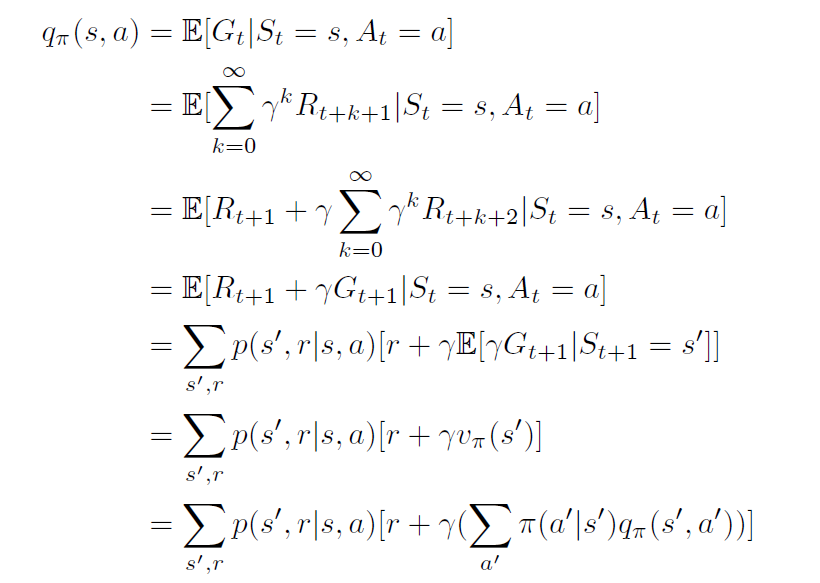
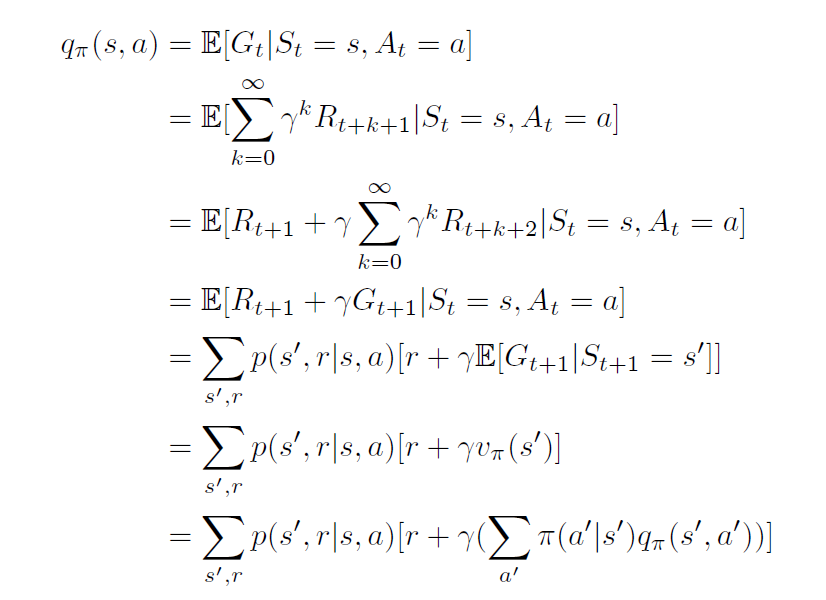
finish chapter 3 exercise

diff --git a/solutions/formulas/formulas.tex b/solutions/formulas/formulas.tex
@@ -69,7 +69,7 @@
     &= \mathbb{E}[\sum_{k=0}^{\infty}\gamma^kR_{t+k+1} | S_{t}=s, A_{t}=a]\\
     &= \mathbb{E}[R_{t+1} + \gamma \sum_{k=0}^{\infty}\gamma^kR_{t+k+2} | S_{t}=s, A_{t}=a]\\
     &= \mathbb{E}[R_{t+1} + \gamma G_{t+1} | S_{t}=s, A_{t}=a]\\
-    &= \sum_{s',r}p(s',r|s,a)[r + \gamma \mathbb{E}[\gamma G_{t+1} | S_{t+1}=s']]\\
+    &= \sum_{s',r}p(s',r|s,a)[r + \gamma \mathbb{E}[ G_{t+1} | S_{t+1}=s']]\\
     &= \sum_{s',r}p(s',r|s,a)[r + \gamma v_\pi(s')]\\
     &= \sum_{s',r}p(s',r|s,a)[r + \gamma (\sum_{a'}\pi(a'|s') q_{\pi}(s',a'))]
   \end{aligned}
@@ -82,9 +82,65 @@
     Then \ \ v_{\pi}^c(s) &= \mathbb{E}[G_t^c | S_{t}=s]\\
     &= \mathbb{E}[\sum_{k=0}^{\infty}\gamma^k(R_{t+k+1} + c) | S_{t}=s]\\
     &= \mathbb{E}[\sum_{k=0}^{\infty}\gamma^k(R_{t+k+1} + \sum_{k=0}^{\infty}\gamma^kc) | S_{t}=s]\\
-    &= v_{\pi}(s) + \sum_{k=0}^{\infty}\gamma^kc
+    &= v_{\pi}(s) + \sum_{k=0}^{\infty}\gamma^kc\\
+    &= v_{\pi}(s) + \frac {c} {1-\gamma}
   \end{aligned}
 \]
+
+% Exercise 3.15
+\[
+  \begin{aligned}
+    Given \ G_t = &\sum_{k=0}^{T}\gamma^kR_{t+k+1}, and, \ G_t^c = \sum_{k=0}^{T}\gamma^k(R_{t+k+1} + c)\\
+    Then \ \ v_{\pi}^c(s) &= \mathbb{E}[G_t^c | S_{t}=s]\\
+    &= \mathbb{E}[\sum_{k=0}^{T}\gamma^k(R_{t+k+1} + c) | S_{t}=s]\\
+    &= \mathbb{E}[\sum_{k=0}^{T}\gamma^k(R_{t+k+1} + \sum_{k=0}^{T}\gamma^kc) | S_{t}=s]\\
+    &= v_{\pi}(s) + \sum_{k=0}^{T}\gamma^kc\\
+    &= v_{\pi}(s) + c\frac {1 - \gamma^{T+1}} {1-\gamma}\\
+    c\frac {1 - \gamma^{T+1}} {1-\gamma}, &\ increase \ earlier \ appeared \ states \ with \ higher \ values.
+  \end{aligned}
+\]
+
+% Exercise 3.16
+\[
+  \begin{aligned}
+    v_{\pi}(s) &= \mathbb{E}_{\pi} [Gt | S_t = s]\\
+    &= \mathbb{E}_{\pi} [ \mathbb{E}_{\pi}[ Gt | S_t=s, A_t = a] | S_t=s] \ (law \ of \ iterated \ expectation) \\
+    &= \mathbb{E}_{\pi} [ q_{\pi}(s, \pi(s)) | S_{t}=s]\\
+    &= \sum_{a}\pi(a|s) p_{\pi}(s, a)
+  \end{aligned}
+\]
+
+% Exercise 3.17
+\[
+  \begin{aligned}
+    q_{\pi}(s) &= \mathbb{E}[ Gt | S_t=s, A_t = a]\\
+    &= \mathbb{E} [ R_{t=1} + \gamma G_{t+1} | S_t=s, A_t = a] \\
+    &= \mathbb{E} [ R_{t=1} | S_t=s, A_t = a] + \mathbb{E} [ \gamma G_{t+1} | S_t=s, A_t = a] \\
+    &= \mathbb{E} [ R_{t=1} | S_t=s, A_t = a] + \mathbb{E} [ \mathbb{E} [\gamma G_{t+1} | S_t=s, A_t = a, S_{t+1} = s'] | S_t=s, A_t = a] \\
+    &= \mathbb{E} [ R_{t=1} | S_t=s, A_t = a] + \mathbb{E} [\gamma v(S_{t+1}) | S_t=s, A_t = a] \\
+    &= \sum_{s', r} p(s',r|s,a) [r + \gamma v(s')]
+  \end{aligned}
+\]
+
+%  Exercise 3.22
+\[
+  \begin{aligned}
+    \gamma &= 0, \ v_{\pi_{Left}}^{top} = 1 + 0 * v^{left} = 1, \ \ v_{\pi_{Right}}^{top} = 0 + 0 * v^{right} = 0; \\
+    \gamma &= 0.9, \ v_{\pi_{Left}}^{top} = 1 + 0.9 * v^{left} = 1, \ \ v_{\pi_{Right}}^{top} = 0 + 0.9 * v^{right} = 1.8; \\
+    \gamma &= 0.5, \ v_{\pi_{Left}}^{top} = 1 + 0.5 * v^{left} = 1, \ \ v_{\pi_{Right}}^{top} = 0 + 0.5 * v^{right} = 1;
+  \end{aligned}
+\]
+
+%  Exercise 3.23, 24, 25, 26
+\[
+  \begin{aligned}
+    &v_*(s) &&= \max_a (q_*(s, a)) \ \ &exercise3.23 \\
+    &q_*(s,a) &&= \sum_{s',r} p(s',r|s,a)[r + \gamma v_*(s')] \ \ &exercise3.24 \\
+    &\pi_*(s) &&= \arg\max_a (q_*(s, a))  \ \ &exercise3.25 \\
+    &\pi_*(s) &&= \arg\max_a (\sum_{s',r} p(s',r|s,a)[r + \gamma v_*(s')])  \ \ &exercise3.26
+  \end{aligned}
+\]
+
 
 % Bellman Equation & Bellman Optimality Equation: value function & action-value function
 \[

diff --git a/solutions/chapter3/selected-solutions.md b/solutions/chapter3/selected-solutions.md
@@ -48,6 +48,22 @@
 `Exercise 3.14`
 > ![alt text](figures/exercise_3-14.png "Exercise 3.14")
 
+`Exercise 3.16`
+> ![alt text](figures/exercise_3-16.png "Exercise 3.16")
+
+`Exercise 3.17`
+> ![alt text](figures/exercise_3-17.png "Exercise 3.17")
+
+`Exercise 3.21`
+> v*(A) = 10 + v*(A') = 10 + 0.9*(0 + 0.9 v*(1, 3)) = .... = 10 + 0.9^5 v*(A)    
+> v*(A) = 10 / (1 - 0.9^5)
+
+`Exercise 3.22`
+> ![alt text](figures/exercise_3-22.png "Exercise 3.22")
+
+`Exercise 3.23,24,25,26`
+> ![alt text](figures/exercise_3-23-26.png "Exercise 3.23-26")
+
 ---
 
 ## Experiments Results For Chapter 3
